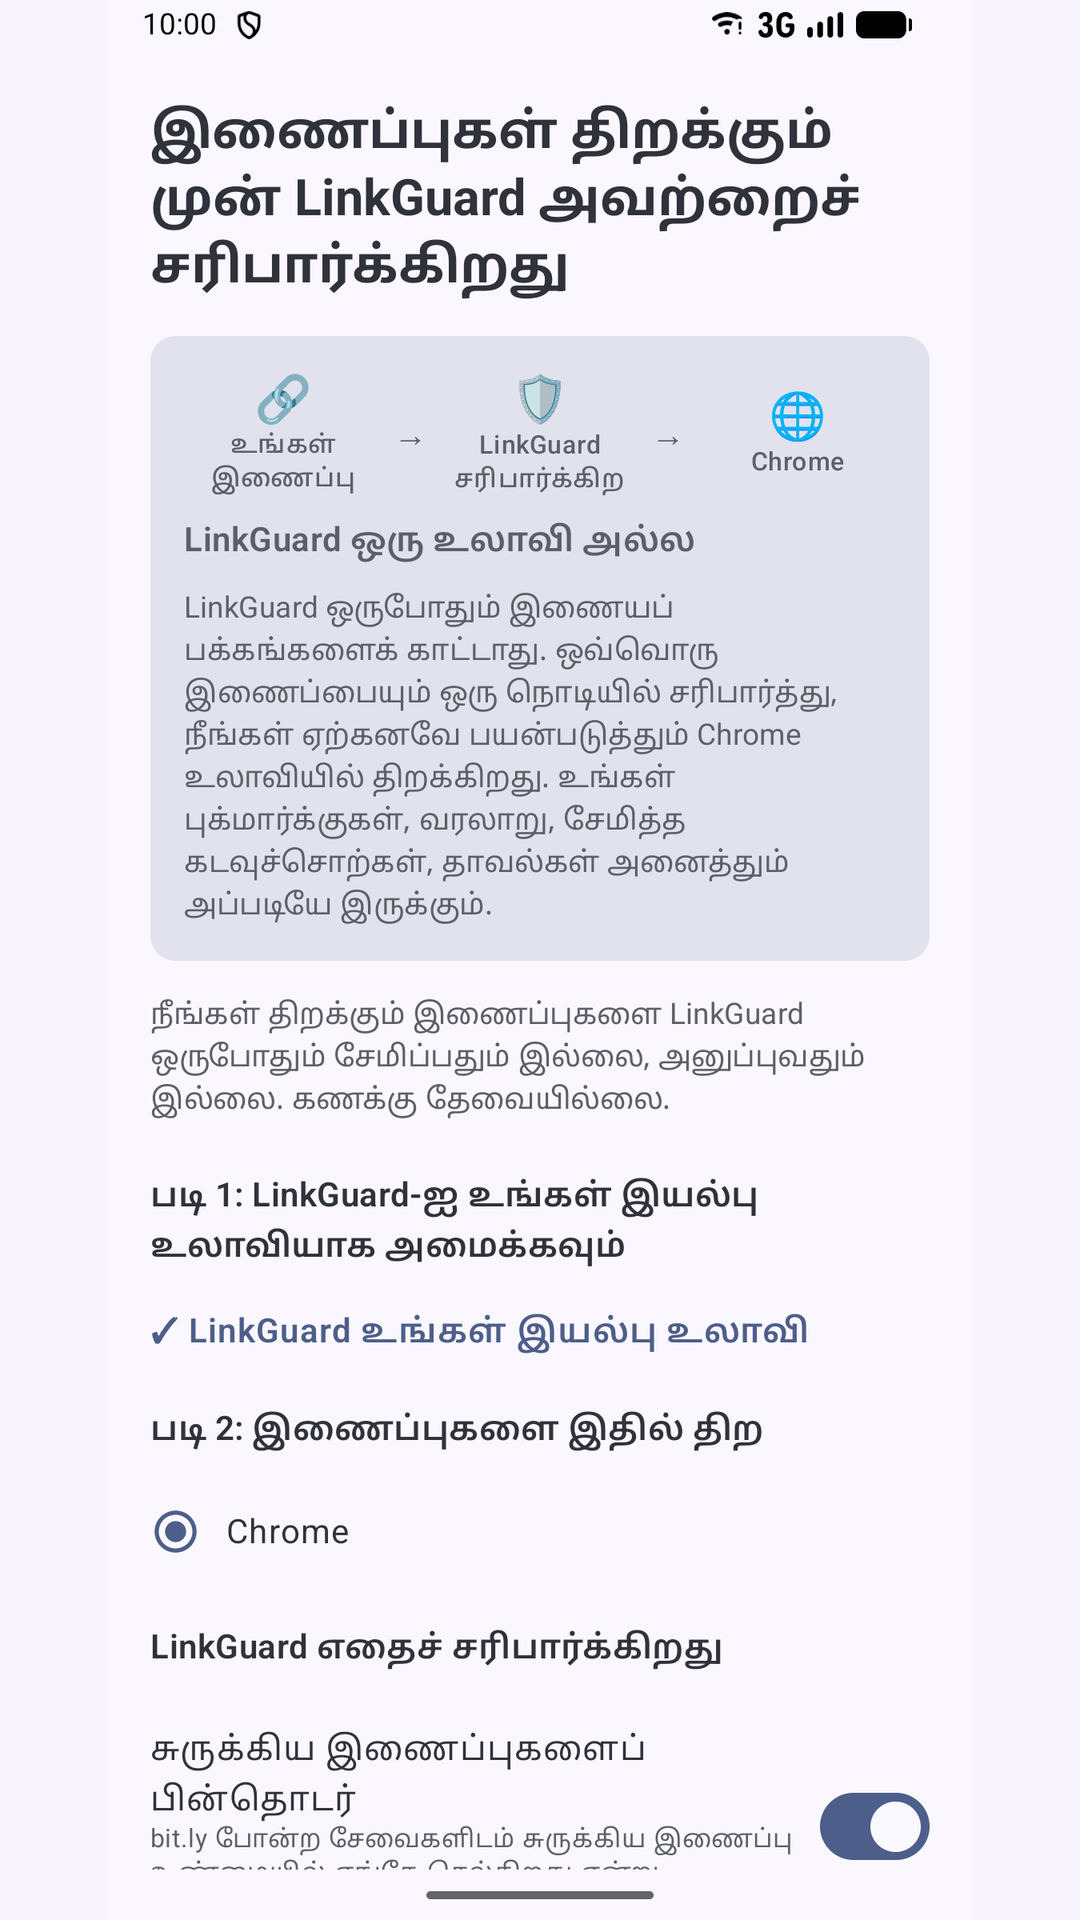
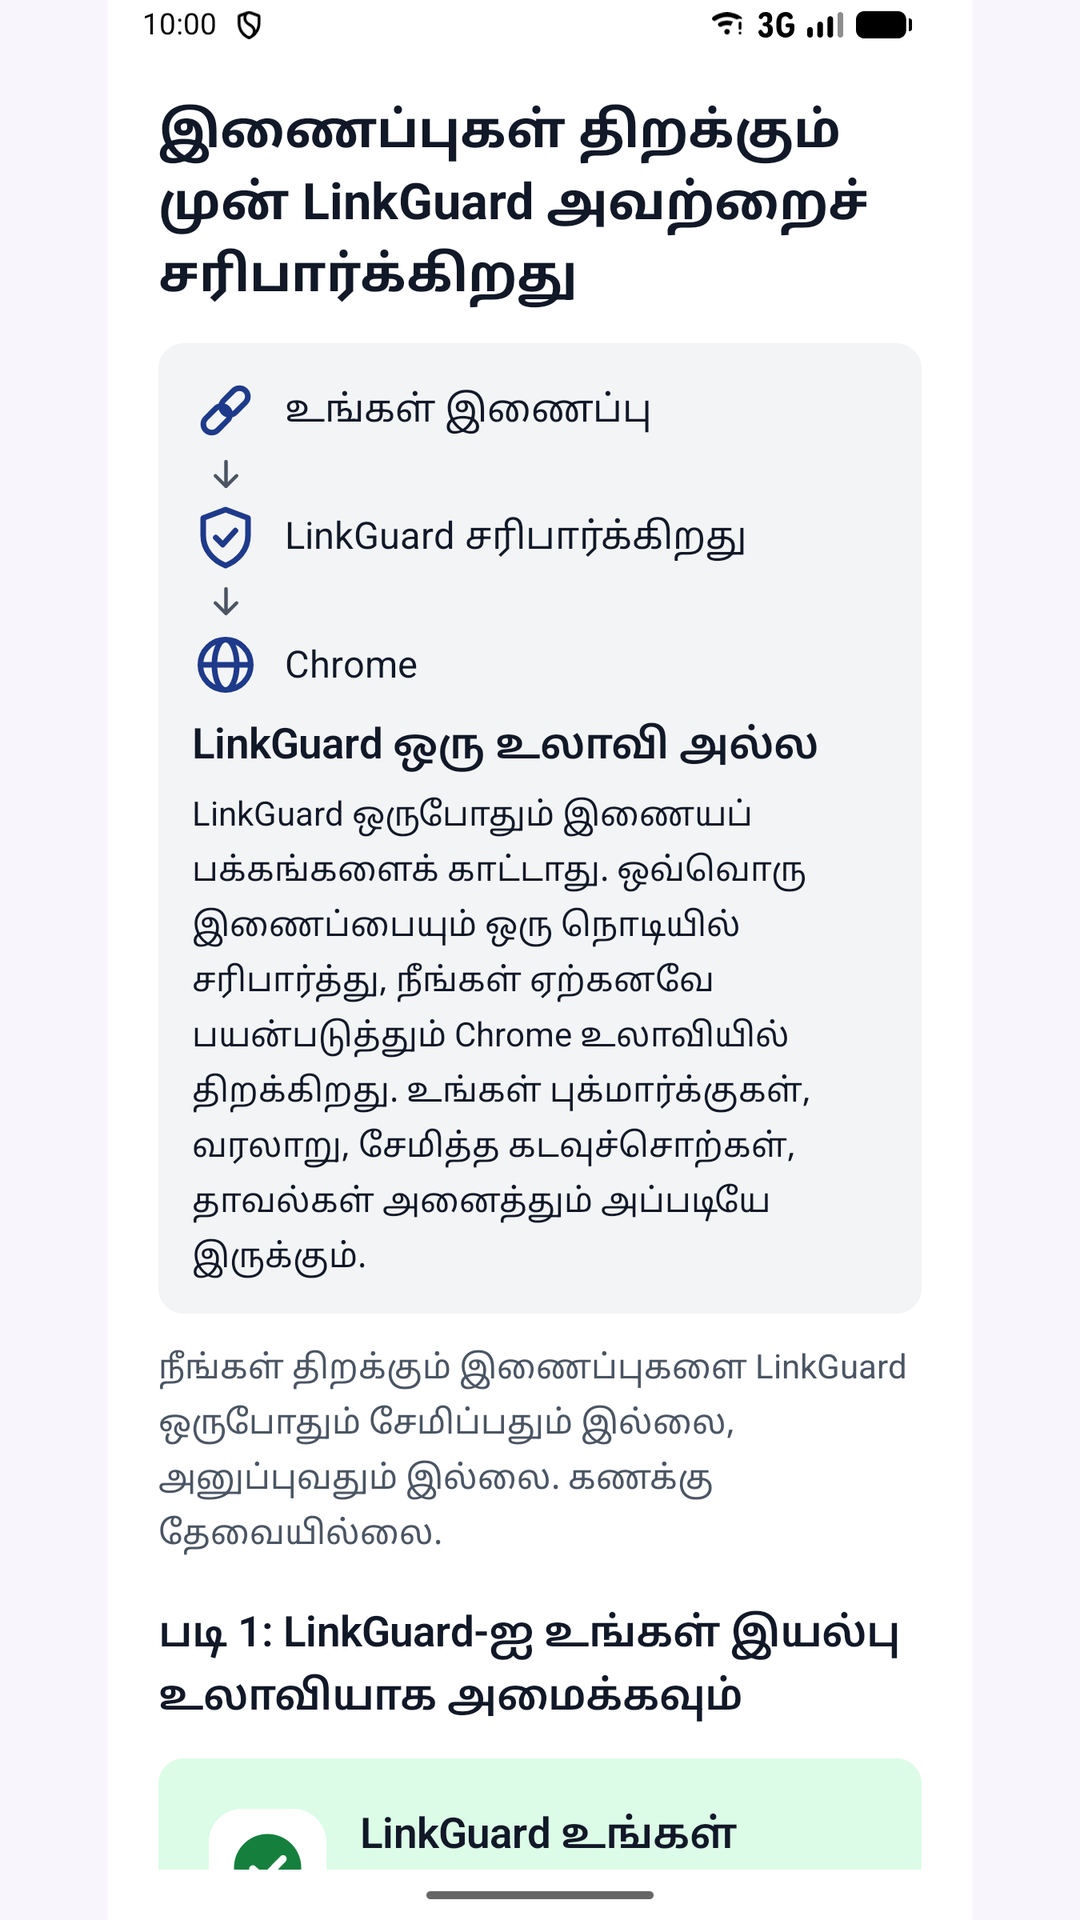
docs(play): refresh screenshots for the new design; closed-test invite; console answers for 0.3.2
- Screenshots re-taken on the emulator with the design-system UI (home, brand
  warning, APK warning, checks) in en/hi/ta; the community-warning scene is
  dropped until a test site with 3+ reports exists again.
- take_screenshots.sh captures them repeatably.
- testers.md: the message for closed-test testers.
- console-answers.md: data safety for warning-screen reports and the on-phone
  Open-anyway note, the exact PEPK command, bundle verification, versionCode 7.

Changed region(s): [[0.1222, 0.0312, 0.8556, 0.8125], [0.1222, 0.8438, 0.8556, 1.0], [0.8556, 0.1875, 0.8861, 0.5]]

diff --git a/docs/play/testers.md b/docs/play/testers.md
@@ -1,0 +1,26 @@
+# Closed-test invite
+
+Google requires a new developer account to run a closed test with at least 12 testers, opted in for 14 days in a row, before the app can go public on Play. This is the message to send testers. Replace `OPT-IN-LINK` with the link Play Console shows under *Testing → Closed testing → Testers → "How testers join your test"*.
+
+Testers must use the Google account you added to the group, install from the Play link (not the GitHub APK), and keep the app installed and opted in for the full 14 days. If they uninstall, the day count stops.
+
+---
+
+Hi! I'm testing an app I made and need a few people to try it for two weeks. It's called **LinkGuard**: when you tap a link in WhatsApp or SMS, it checks the link first and warns you if it looks like a scam (fake bank pages, "update your KYC" apps, UPI payment tricks). Safe links open normally, and it never saves or sends the links you open.
+
+What to do:
+1. Open this link on your Android phone and tap **Become a tester**: OPT-IN-LINK
+2. Install LinkGuard from the Play Store page it takes you to.
+3. Open LinkGuard and tap **Set as default browser**. Pick Chrome (or your usual browser) as the browser links should open in.
+4. Keep it installed for at least **14 days**. Use your phone as normal; you don't need to do anything else.
+
+If you get a scam message, tap its link: you should see a warning, and you can tap **Report this link** to help others. You can always tap **Open anyway**.
+
+Things I'd love to hear about:
+- A safe link that showed a warning, or felt slow to open
+- A scam link that opened with no warning (use **Report a link** in the app)
+- Anything confusing, or text in your language that reads wrong (**Settings → Wrong translation? Tell us**)
+
+Reply here, or email support@dwarpallabs.com. The app is free and open source: https://dwarpallabs.com
+
+Thank you!
